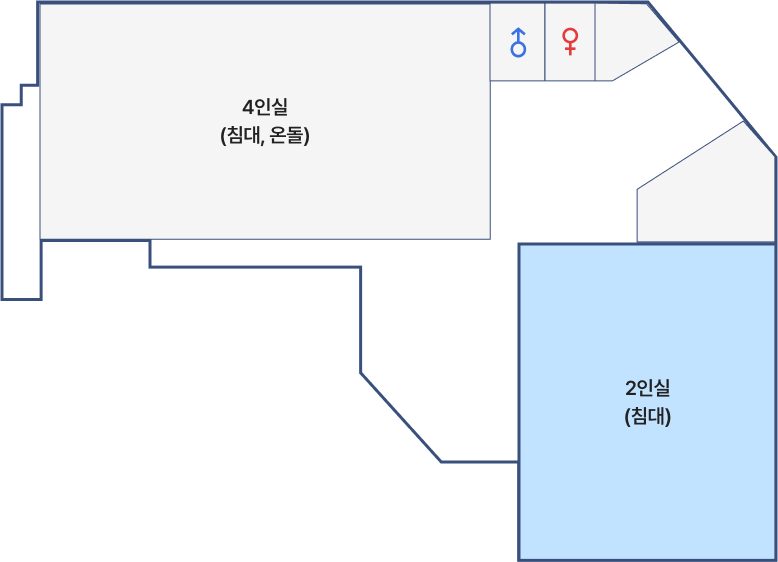
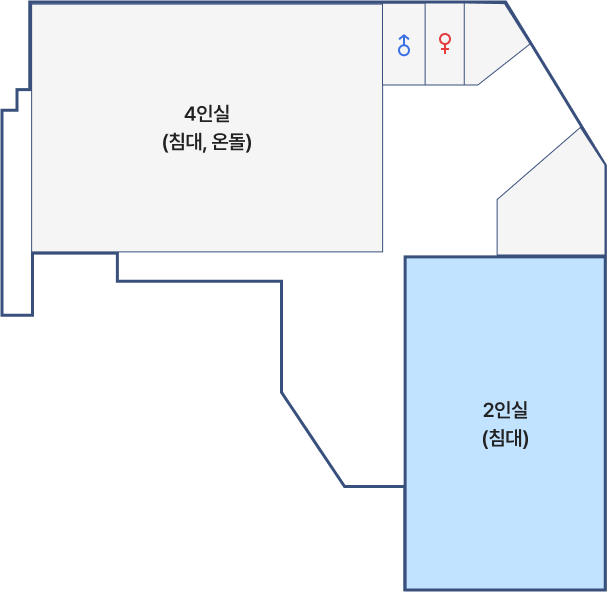
edit: 별관 맵 이미지

diff --git a/index.html b/index.html
@@ -1193,10 +1193,10 @@
                                 <div class="map-area">
                                     <!-- 맵 이미지 -->
                                     <div class="map-imges">
-                                        <img id="mainImage5" src="img/home/annex-map01.png" usemap="#main_5nd" alt="별관 맵 이미지">
-                                        <map name="main_5nd">
-                                            <area class="map05-list1" shape="rect" coords="520,244,776,560" alt="" data-img="img/home/annex-map01.png"/>
-                                            <area class="map05-list2" shape="rect" coords="38,3,492,239" alt="" data-img="img/home/annex-map02.png"/>
+                                        <img id="mainImage4" src="img/home/annex-map01.png" usemap="#main_4nd" alt="별관 맵 이미지">
+                                        <map name="main_4nd">
+                                            <area class="map04-list1" shape="rect" coords="406,257,606,591" alt="" data-img="img/home/annex-map01.png"/>
+                                            <area class="map04-list2" shape="rect" coords="29,1,385,255" alt="" data-img="img/home/annex-map02.png"/>
                                         </map> 
                                     </div>
                                     <!-- 맵 컨텐츠 -->
